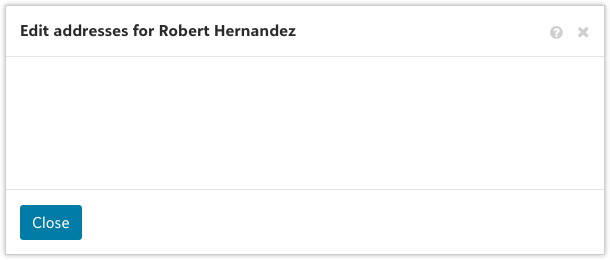
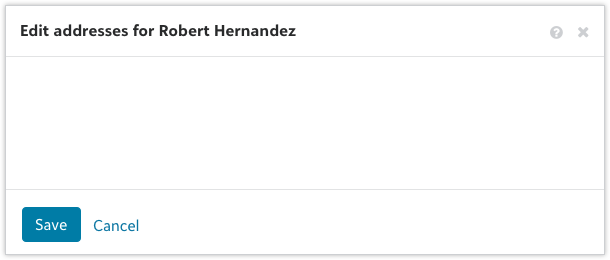
updated screenshots + rearranged ux section

Changed region(s): [[0.0311, 0.7692, 0.1246, 0.9538], [0.1557, 0.8308, 0.2492, 0.8923]]

diff --git a/src/app/components/modal/index.html b/src/app/components/modal/index.html
@@ -150,6 +150,26 @@
   </sky-demo-page-content>
 
 	<sky-demo-page-content sectionHeading="UX guidelines">
+		<div class="sky-section-heading">Usage</div>
+			<div class="sky-subsection-heading">Modal</div>
+			<p>A modal dialog is appropriate for forms that meet any of the following criteria:</p>
+			<ul>
+				<li>The task is functionally modal, and users must finish it before doing anything else.</li>
+				<li>Displaying the form inline would lead to substantial content shifting or require users to scroll to complete the form.</li>
+				<li>The form adds records from a paginated list or an infinite scroll list.</li>
+			</ul>
+			<div class="sky-subsection-heading">Full-page modal</div>
+			<p>A full-page modal is appropriate for forms that meet the following criteria:</p>
+			<ul>
+				<li>The task is functionally modal, and users must finish it before doing anything else.</li>
+				<li>Users usually perform the task in a large viewport, and a full-page modal can optimize the use of space.</li>
+				<li>The context of the task is self-contained.</li>
+				<li>The form displays ancillary information or previews such as running totals or an email being constructed.</li>
+				<li>The form supports a complex task for a list of objects such as filling out report cards for a class.</li>
+				<li>The task includes subtasks that need to be completed in context.</li>
+			</ul>
+    
+		<div class="sky-section-heading">Content</div>
 		<div class="sky-subsection-heading">Modal title text</div>
 			<p>In general, modal titles should use sentence-case capitalization and the following format:</p>
 			<p><span class="sky-emphasized">&lt;Verb&gt; &lt;direct object&gt; for &lt;indirect object&gt;</span></p>
@@ -161,29 +181,12 @@
 			<div style="margin-bottom: 20px;">
 				<img class="screenshot screenshot-info" src="~/assets/img/guidelines/wording/modal-without-object.png" alt="modal title: Manage bank feeds"/>
 			</div>
-  	<div class="sky-subsection-heading">Usage</div>
-			<div class="sky-emphasized">Modal</div>
-			<p>A modal dialog is appropriate for forms that meet any of the following criteria:</p>
+		
+		<div class="sky-subsection-heading">Buttons in the modal action bar</div>
 			<ul>
-				<li>The task is functionally modal, and users must finish it before doing anything else.</li>
-				<li>Displaying the form inline would lead to substantial content shifting or require users to scroll to complete the form.</li>
-				<li>The form adds records from a paginated list or an infinite scroll list.</li>
+				<li>Use a primary <a routerLink="/components/button">button</a> for the most likely action the user will take. Use secondary buttons for less likely actions. Use a link button for the Cancel action.</li>
+				<li>If a modal has only one action, you should generally use the <a routerLink="/components/confirm">Confirm</a> component instead.</li>
 			</ul>
-			<div class="sky-emphasized">Full-page modal</div>
-			<p>A full-page modal is appropriate for forms that meet the following criteria:</p>
-			<ul>
-				<li>The task is functionally modal, and users must finish it before doing anything else.</li>
-				<li>Users usually perform the task in a large viewport, and a full-page modal can optimize the use of space.</li>
-				<li>The context of the task is self-contained.</li>
-				<li>The form displays ancillary information or previews such as running totals or an email being constructed.</li>
-				<li>The form supports a complex task for a list of objects such as filling out report cards for a class.</li>
-				<li>The task includes subtasks that need to be completed in context.</li>
-			</ul>
-    <div class="sky-subsection-heading">Buttons within modals</div>
-    <ul>
-      <li>Use the primary button for Cancel buttons and when Close is the only option in a modal.</li>
-      <li>If a modal has only one action, use the Confirm component instead.</li>
-    </ul>
   </sky-demo-page-content>
 
 </sky-demo-page>
